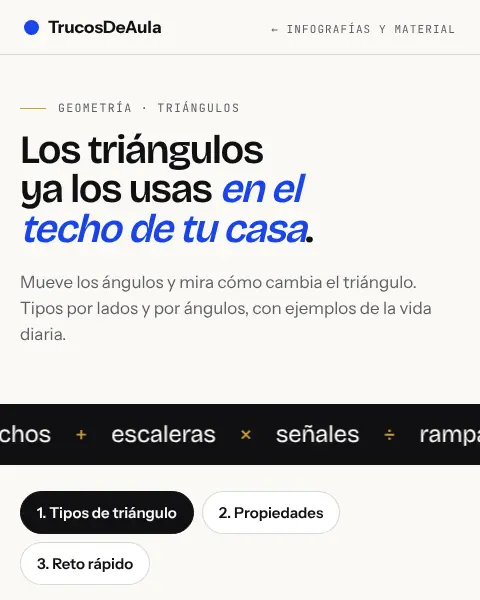
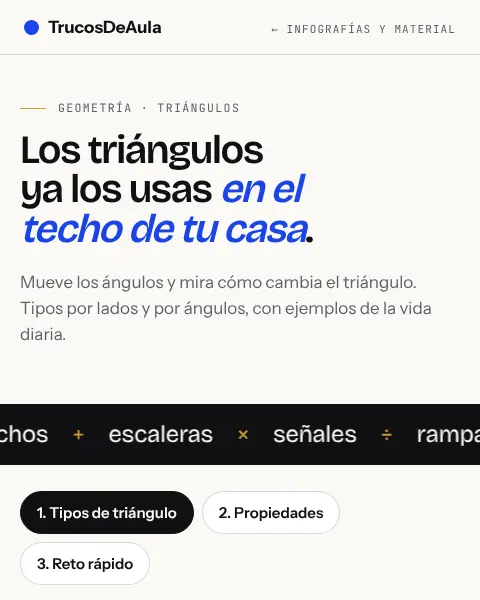
Material: actualiza las 4 páginas de geometría y ordena el material por tema
Claude-Session: https://claude.ai/code/session_01KZaMsh6YNVmKBjcre3BbiW

diff --git a/site/material/geometria-perimetro-y-area.html b/site/material/geometria-perimetro-y-area.html
@@ -112,6 +112,10 @@ input[type=number]{min-width:0}
 .row{align-items:center}
 .pill{line-height:1.5}
 
+.fun{border:1.5px dashed var(--gold);border-radius:10px;padding:14px 18px;margin-top:12px;background:var(--panel)}
+.fun p{margin:0 0 6px;font-size:16px;line-height:1.5}
+.fun p:last-child{margin:0}
+
 </style>
 </head>
 <body>
@@ -151,6 +155,7 @@ input[type=number]{min-width:0}
         <div class="eq" id="areaF"></div>
         <div class="eq" id="areaV" style="font-size:22px;margin-top:4px"></div>
       </div>
+      <div class="fun" id="funFig"></div>
       <p style="color:var(--muted);font-size:15px;margin-top:12px">Cada cuadrito de la cuadrícula mide 1 cm × 1 cm, o sea 1 cm² de área. El perímetro se mide en cm; el área, en cm².</p>
     </div>
   </div>
@@ -306,26 +311,35 @@ function lab(x,y,t,anchor){return '<text x="'+x.toFixed(1)+'" y="'+y.toFixed(1)+
 var FIG={
   cuadrado:{n:'Cuadrado',life:'El mosaico de un baño o un pañuelo.',p:[['l','Lado',1,12,5]],
     dims:function(v){return [v.l,v.l];},
-    per:function(v){return ['P = 4 · l','P = 4 · '+v.l+' = '+(4*v.l)+' cm'];},
+    per:function(v){return ['P = 4l','P = 4 x '+v.l+' = '+(4*v.l)+' cm'];},
     area:function(v){return ['A = l²','A = '+v.l+'² = '+(v.l*v.l)+' cm²'];}},
   rectangulo:{n:'Rectángulo',life:'Una hoja del cuaderno, una cancha, una puerta.',p:[['b','Base',1,14,8],['h','Altura',1,10,5]],
     dims:function(v){return [v.b,v.h];},
     per:function(v){return ['P = 2(b + h)','P = 2('+v.b+' + '+v.h+') = '+(2*(v.b+v.h))+' cm'];},
-    area:function(v){return ['A = b · h','A = '+v.b+' · '+v.h+' = '+(v.b*v.h)+' cm²'];}},
+    area:function(v){return ['A = b x h','A = '+v.b+' x '+v.h+' = '+(v.b*v.h)+' cm²'];}},
   triangulo:{n:'Triángulo rectángulo',life:'Una escuadra, un banderín, una rampa vista de lado.',p:[['b','Base',1,14,8],['h','Altura',1,10,6]],
     dims:function(v){return [v.b,v.h];},
-    per:function(v){var c=Math.sqrt(v.b*v.b+v.h*v.h);return ['P = b + h + c, con c = √(b² + h²)','P = '+v.b+' + '+v.h+' + '+r2(c)+' = '+r2(v.b+v.h+c)+' cm'];},
-    area:function(v){return ['A = b · h ÷ 2','A = '+v.b+' · '+v.h+' ÷ 2 = '+r2(v.b*v.h/2)+' cm²'];}},
+    per:function(v){var c=Math.sqrt(v.b*v.b+v.h*v.h);return ['P = a + b + c (suma de los tres lados)','P = '+v.b+' + '+v.h+' + '+r2(c)+' = '+r2(v.b+v.h+c)+' cm'];},
+    area:function(v){return ['A = (b x h) / 2','A = ('+v.b+' x '+v.h+') / 2 = '+r2(v.b*v.h/2)+' cm²'];}},
   circulo:{n:'Círculo',life:'Una pizza, una llanta, una moneda.',p:[['r','Radio',1,8,5]],
     dims:function(v){return [2*v.r,2*v.r];},
-    per:function(v){return ['P = 2 · π · r','P = 2 · π · '+v.r+' ≈ '+r2(2*PI*v.r)+' cm'];},
-    area:function(v){return ['A = π · r²','A = π · '+v.r+'² ≈ '+r2(PI*v.r*v.r)+' cm²'];}},
+    per:function(v){return ['P = 2πr','P = 2 x π x '+v.r+' ≈ '+r2(2*PI*v.r)+' cm'];},
+    area:function(v){return ['A = πr²','A = π x '+v.r+'² ≈ '+r2(PI*v.r*v.r)+' cm²'];}},
   trapecio:{n:'Trapecio isósceles',life:'El perfil de una cubeta o de un puesto de tianguis.',p:[['B','Base mayor',3,14,10],['b','Base menor',1,13,6],['h','Altura',1,9,5]],
     dims:function(v){return [v.B,v.h];},
-    per:function(v){var l=Math.sqrt(v.h*v.h+Math.pow((v.B-v.b)/2,2));return ['P = B + b + 2l, con l = √(h² + ((B − b) ÷ 2)²)','P = '+v.B+' + '+v.b+' + 2('+r2(l)+') = '+r2(v.B+v.b+2*l)+' cm'];},
-    area:function(v){return ['A = (B + b) · h ÷ 2','A = ('+v.B+' + '+v.b+') · '+v.h+' ÷ 2 = '+r2((v.B+v.b)*v.h/2)+' cm²'];}}
+    per:function(v){var l=Math.sqrt(v.h*v.h+Math.pow((v.B-v.b)/2,2));return ['P = a + b + c + d (suma de los cuatro lados)','P = '+v.B+' + '+v.b+' + '+r2(l)+' + '+r2(l)+' = '+r2(v.B+v.b+2*l)+' cm'];},
+    area:function(v){return ['A = (B + b) x h / 2','A = ('+v.B+' + '+v.b+') x '+v.h+' / 2 = '+r2((v.B+v.b)*v.h/2)+' cm²'];}}
 };
 var figKey='rectangulo', vals={};
+var FUNFIG={
+  cuadrado:['<b>l²</b> se lee “lado al cuadrado” por algo literal: multiplicas lado por lado y obtienes cuadritos. Un cuadrado de lado 5 tiene 5 filas de 5 cuadritos, o sea 25.','<b>4l</b> es un atajo: como los cuatro lados son iguales, en vez de sumar l + l + l + l multiplicas 4 por l.'],
+  rectangulo:['<b>b x h</b>: en el rectángulo caben h filas y cada fila tiene b cuadritos. Contar filas iguales es multiplicar, y por eso el área es una multiplicación.','<b>2(b + h)</b>: al recorrer el contorno pasas por dos bases y dos alturas. Es b + h + b + h, que se agrupa como dos veces (b + h).'],
+  triangulo:['<b>(b x h) / 2</b>: si cortas un rectángulo por su diagonal salen dos triángulos iguales. Cada uno es la mitad del rectángulo, así que su área es b x h dividido entre 2.','<b>a + b + c</b> no tiene atajo: es el único caso en que solo queda sumar los tres lados.'],
+  circulo:['<b>π</b> es lo que sale al dividir lo que mide el borde de cualquier círculo entre su diámetro: siempre da unos 3.14, sea una moneda o una pista de atletismo. Por eso <b>2πr</b> es “π veces el diámetro”.','<b>πr²</b>: si cortas el círculo en gajos como una pizza y los acomodas alternados, se arma casi un rectángulo. Su base es la mitad del borde (πr) y su altura es r, y πr x r = πr².'],
+  trapecio:['<b>(B + b) x h / 2</b>: si pegas otro trapecio igual, girado, se forma un rectángulo torcido de base B + b y altura h. El trapecio es la mitad de ese. Dicho de otro modo, es el promedio de las dos bases por la altura.','<b>a + b + c + d</b>: igual que el triángulo, el perímetro de un trapecio es sumar sus cuatro lados.']
+};
+function funHTML(a){return a.map(function(t){return '<p>'+t+'</p>';}).join('');}
+
 function figShape(key,v,ox,oy,u){
   var fillA='fill="var(--gold)" fill-opacity=".38"', ln='stroke="var(--accent)" stroke-width="4" stroke-linejoin="round"';
   if(key==='cuadrado') return '<rect x="'+ox+'" y="'+(oy-v.l*u)+'" width="'+(v.l*u)+'" height="'+(v.l*u)+'" '+fillA+' '+ln+'/>'+lab(ox+v.l*u/2,oy+20,'l = '+v.l);
@@ -362,6 +376,7 @@ function setFig(key){
     var on=b.getAttribute('data-fig')===key;
     b.style.background=on?'var(--ink)':'var(--panel)'; b.style.color=on?'var(--bg)':'var(--ink)'; b.style.borderColor=on?'var(--ink)':'var(--line)';
   });
+  $('#funFig').innerHTML='<div class="kicker" style="margin-bottom:6px">Dato curioso</div>'+funHTML(FUNFIG[key]);
   drawFig();
 }
 Object.keys(FIG).forEach(function(k){
@@ -385,7 +400,7 @@ function drawComp(){
     s+='<polygon points="'+ox+','+oy+' '+(ox+W*u)+','+oy+' '+(ox+W*u)+','+(oy-(H-h)*u)+' '+(ox+(W-w)*u)+','+(oy-(H-h)*u)+' '+(ox+(W-w)*u)+','+(oy-H*u)+' '+ox+','+(oy-H*u)+'" fill="none" stroke="var(--ink)" stroke-width="3.5" stroke-linejoin="round"/>';
     s+=lab(ox+W*u/2,oy+20,'W = '+W)+lab(ox-8,oy-H*u/2+5,'H = '+H,'end')+lab(ox+(W-w/2)*u,oy-(H-h)*u-8,'w = '+w)+lab(ox+(W-w)*u+8,oy-(H-h/2)*u+5,'h = '+h,'start');
     var A1=W*(H-h), A2=(W-w)*h;
-    area='<p>Partiendo en dos rectángulos: W(H − h) + (W − w)h</p><p class="eq">'+W+'('+(H-h)+') + '+(W-w)+'('+h+') = '+A1+' + '+A2+' = '+(A1+A2)+' cm²</p><p>Completando el rectángulo: W · H − w · h</p><p class="eq">'+W+' · '+H+' − '+w+' · '+h+' = '+(W*H)+' − '+(w*h)+' = '+(W*H-w*h)+' cm²</p>';
+    area='<p>Partiendo en dos rectángulos: W(H − h) + (W − w)h</p><p class="eq">'+W+'('+(H-h)+') + '+(W-w)+'('+h+') = '+A1+' + '+A2+' = '+(A1+A2)+' cm²</p><p>Completando el rectángulo: W x H − w x h</p><p class="eq">'+W+' x '+H+' − '+w+' x '+h+' = '+(W*H)+' − '+(w*h)+' = '+(W*H-w*h)+' cm²</p>';
     per='<p>Los lados del recoveco suman lo mismo que los lados que le quitaste al rectángulo, así que el perímetro es el del rectángulo grande.</p><p class="eq">P = 2(W + H) = 2('+W+' + '+H+') = '+(2*(W+H))+' cm</p>';
   } else {
     name='Ventana con arco'; life='Una ventana de iglesia, la entrada de un túnel, una puerta con arco.';
@@ -398,8 +413,8 @@ function drawComp(){
     s+='<path d="M '+ox2+' '+oy2+' L '+(ox2+b*u2)+' '+oy2+' L '+(ox2+b*u2)+' '+(oy2-hh*u2)+' A '+(r*u2)+' '+(r*u2)+' 0 0 0 '+ox2+' '+(oy2-hh*u2)+' Z" fill="none" stroke="var(--ink)" stroke-width="3.5" stroke-linejoin="round"/>';
     s+=lab(ox2+b*u2/2,oy2+20,'b = '+b)+lab(ox2-8,oy2-hh*u2/2+5,'h = '+hh,'end')+lab(ox2+b*u2/2,oy2-hh*u2-r*u2/2+5,'r = '+r);
     var Ar=b*hh, As=PI*r*r/2;
-    area='<p>Rectángulo + medio círculo: b · h + π r² ÷ 2</p><p class="eq">'+b+' · '+hh+' + π · '+r+'² ÷ 2 ≈ '+r2(Ar)+' + '+r2(As)+' = '+r2(Ar+As)+' cm²</p>';
-    per='<p>Base + dos lados + el arco (media circunferencia). El lado de arriba del rectángulo no cuenta, porque ya no es contorno.</p><p class="eq">P = b + 2h + π r = '+b+' + '+(2*hh)+' + π · '+r+' ≈ '+r2(b+2*hh+PI*r)+' cm</p>';
+    area='<p>Rectángulo + medio círculo: b x h + πr² / 2</p><p class="eq">'+b+' x '+hh+' + π x '+r+'² / 2 ≈ '+r2(Ar)+' + '+r2(As)+' = '+r2(Ar+As)+' cm²</p>';
+    per='<p>Base + dos lados + el arco (media circunferencia). El lado de arriba del rectángulo no cuenta, porque ya no es contorno.</p><p class="eq">P = b + 2h + πr = '+b+' + '+(2*hh)+' + π x '+r+' ≈ '+r2(b+2*hh+PI*r)+' cm</p>';
   }
   $('#svgComp').innerHTML=s; $('#compName').textContent=name;
   $('#compLife').textContent='En la vida diaria: '+life.charAt(0).toLowerCase()+life.slice(1);
@@ -443,19 +458,19 @@ Quiz(function(){
   var k=rnd(5), q={};
   if(k===0){
     var L=3+rnd(6), W=3+rnd(4);
-    q={text:'El piso de una recámara mide '+L+' m × '+W+' m. ¿Cuántos mosaicos cuadrados de 50 cm por lado se necesitan?',ans:L*W*4,unit:'mosaicos',tol:0.01,why:'Área = '+L+' · '+W+' = '+(L*W)+' m². Cada mosaico cubre 0.25 m², así que caben 4 por metro cuadrado.'};
+    q={text:'El piso de una recámara mide '+L+' m × '+W+' m. ¿Cuántos mosaicos cuadrados de 50 cm por lado se necesitan?',ans:L*W*4,unit:'mosaicos',tol:0.01,why:'Área = '+L+' x '+W+' = '+(L*W)+' m². Cada mosaico cubre 0.25 m², así que caben 4 por metro cuadrado.'};
   } else if(k===1){
     var a=8+rnd(10), b=5+rnd(7);
     q={text:'Un terreno rectangular mide '+a+' m de frente por '+b+' m de fondo. ¿Cuántos metros de cerca se necesitan para rodearlo una vez?',ans:2*(a+b),unit:'m',tol:0.01,why:'P = 2('+a+' + '+b+') = '+(2*(a+b))+' m.'};
   } else if(k===2){
     var d=pick([20,24,30,36,40]), r=d/2;
-    q={text:'Una pizza mide '+d+' cm de diámetro. ¿Cuál es su área? Usa π = 3.14.',ans:r2(3.14*r*r),unit:'cm²',tol:0.02,why:'r = '+r+' cm y A = π r² = 3.14 · '+r+'² = '+r2(3.14*r*r)+' cm².'};
+    q={text:'Una pizza mide '+d+' cm de diámetro. ¿Cuál es su área? Usa π = 3.14.',ans:r2(3.14*r*r),unit:'cm²',tol:0.02,why:'r = '+r+' cm y A = πr² = 3.14 x '+r+'² = '+r2(3.14*r*r)+' cm².'};
   } else if(k===3){
     var l=pick([7,8,9,10,11,12,13]);
-    q={text:'Un cuadrado tiene un área de '+(l*l)+' cm². ¿Cuánto mide su perímetro?',ans:4*l,unit:'cm',tol:0.01,why:'El lado es √'+(l*l)+' = '+l+' cm y P = 4 · '+l+' = '+(4*l)+' cm.'};
+    q={text:'Un cuadrado tiene un área de '+(l*l)+' cm². ¿Cuánto mide su perímetro?',ans:4*l,unit:'cm',tol:0.01,why:'El lado es √'+(l*l)+' = '+l+' cm y P = 4 x '+l+' = '+(4*l)+' cm.'};
   } else {
     var bb=pick([4,5,8,10,12]), hh=pick([3,4,5,6,7,9]);
-    q={text:'Un rectángulo tiene un área de '+(bb*hh)+' cm² y su base mide '+bb+' cm. ¿Cuánto mide su perímetro?',ans:2*(bb+hh),unit:'cm',tol:0.01,why:'La altura es '+(bb*hh)+' ÷ '+bb+' = '+hh+' cm y P = 2('+bb+' + '+hh+') = '+(2*(bb+hh))+' cm.'};
+    q={text:'Un rectángulo tiene un área de '+(bb*hh)+' cm² y su base mide '+bb+' cm. ¿Cuánto mide su perímetro?',ans:2*(bb+hh),unit:'cm',tol:0.01,why:'La altura es '+(bb*hh)+' / '+bb+' = '+hh+' cm y P = 2('+bb+' + '+hh+') = '+(2*(bb+hh))+' cm.'};
   }
   return q;
 });

diff --git a/site/material/geometria-volumen.html b/site/material/geometria-volumen.html
@@ -112,6 +112,10 @@ input[type=number]{min-width:0}
 .row{align-items:center}
 .pill{line-height:1.5}
 
+.fun{border:1.5px dashed var(--gold);border-radius:10px;padding:14px 18px;margin-top:12px;background:var(--panel)}
+.fun p{margin:0 0 6px;font-size:16px;line-height:1.5}
+.fun p:last-child{margin:0}
+
 </style>
 </head>
 <body>
@@ -150,7 +154,8 @@ input[type=number]{min-width:0}
         <div class="kicker" style="margin-bottom:4px">Capacidad · cuánto líquido le cabe</div>
         <div class="eq" id="capV" style="font-size:22px"></div>
       </div>
-      <p style="color:var(--muted);font-size:15px;margin-top:12px">Medidas en cm. Un litro equivale a 1000 cm³.</p>
+      <div class="fun" id="funSol"></div>
+      <p style="color:var(--muted);font-size:15px;margin-top:12px">Medidas en cm. Ab es el área de la base y hc es la altura del cuerpo. Un litro equivale a 1000 cm³.</p>
     </div>
   </div>
 </section>
@@ -170,7 +175,7 @@ input[type=number]{min-width:0}
         <p><b>Pirámide y prisma</b> con la misma base y la misma altura: igual, un tercio.</p>
         <p><b>Esfera y cilindro</b> que la envuelve (altura 2r): la esfera ocupa dos tercios.</p>
       </div>
-      <div class="band" style="margin-top:14px">Por eso en las fórmulas del cono y de la pirámide aparece ⅓.</div>
+      <div class="band" style="margin-top:14px">Por eso en las fórmulas del cono y de la pirámide aparece la división entre 3.</div>
     </div>
   </div>
 </section>
@@ -293,19 +298,29 @@ function t(x,y,s,a){return '<text x="'+x.toFixed(1)+'" y="'+y.toFixed(1)+'" text
 
 var SOL={
   cubo:{n:'Cubo',life:'Un dado o un cubo de hielo.',p:[['a','Arista',1,10,4]],
-    vol:function(v){return [ 'V = a³','V = '+v.a+'³ = '+(v.a*v.a*v.a),v.a*v.a*v.a];}},
+    vol:function(v){return ['V = Ab x hc','V = ('+v.a+' x '+v.a+') x '+v.a+' = '+(v.a*v.a*v.a),v.a*v.a*v.a];}},
   prisma:{n:'Prisma rectangular',life:'Una caja de cereal, un ladrillo, un tinaco rectangular.',p:[['l','Largo',1,12,8],['w','Ancho',1,10,4],['h','Alto',1,12,5]],
-    vol:function(v){return ['V = l · w · h','V = '+v.l+' · '+v.w+' · '+v.h+' = '+(v.l*v.w*v.h),v.l*v.w*v.h];}},
+    vol:function(v){return ['V = Ab x hc','V = ('+v.l+' x '+v.w+') x '+v.h+' = '+(v.l*v.w*v.h),v.l*v.w*v.h];}},
   cilindro:{n:'Cilindro',life:'Una lata de refresco o un tinaco redondo.',p:[['r','Radio',1,8,3],['h','Altura',1,12,8]],
-    vol:function(v){var x=PI*v.r*v.r*v.h;return ['V = π · r² · h','V = π · '+v.r+'² · '+v.h+' ≈ '+r2(x),x];}},
+    vol:function(v){var x=PI*v.r*v.r*v.h;return ['V = πr²h','V = π x '+v.r+'² x '+v.h+' ≈ '+r2(x),x];}},
   cono:{n:'Cono',life:'Un cono de helado o un cono de tránsito.',p:[['r','Radio',1,8,3],['h','Altura',1,12,9]],
-    vol:function(v){var x=PI*v.r*v.r*v.h/3;return ['V = ⅓ · π · r² · h','V = ⅓ · π · '+v.r+'² · '+v.h+' ≈ '+r2(x),x];}},
+    vol:function(v){var x=PI*v.r*v.r*v.h/3;return ['V = (πr²h) / 3','V = (π x '+v.r+'² x '+v.h+') / 3 ≈ '+r2(x),x];}},
   piramide:{n:'Pirámide de base cuadrada',life:'La Pirámide del Sol en Teotihuacán o la punta de un obelisco.',p:[['l','Lado de la base',1,12,6],['h','Altura',1,12,7]],
-    vol:function(v){var x=v.l*v.l*v.h/3;return ['V = ⅓ · l² · h','V = ⅓ · '+v.l+'² · '+v.h+' ≈ '+r2(x),x];}},
+    vol:function(v){var x=v.l*v.l*v.h/3;return ['V = (Ab x hc) / 3','V = ('+(v.l*v.l)+' x '+v.h+') / 3 ≈ '+r2(x),x];}},
   esfera:{n:'Esfera',life:'Un balón o una canica.',p:[['r','Radio',1,10,4]],
-    vol:function(v){var x=4*PI*v.r*v.r*v.r/3;return ['V = ⁴⁄₃ · π · r³','V = ⁴⁄₃ · π · '+v.r+'³ ≈ '+r2(x),x];}}
+    vol:function(v){var x=4*PI*v.r*v.r*v.r/3;return ['V = (4/3)πr³','V = (4/3) x π x '+v.r+'³ ≈ '+r2(x),x];}}
 };
 var solKey='cilindro', sv={};
+var FUNSOL={
+  cubo:['<b>Elevar al cubo</b> viene de aquí: a x a x a. La base es una capa de a x a cubitos y apilas a capas. Por eso a³ se lee “a al cubo”.','Es la misma fórmula del prisma, <b>Ab x hc</b>: cubitos por capa por número de capas.'],
+  prisma:['<b>Ab x hc</b>: piensa en cubitos de 1 cm. La base te dice cuántos caben en una capa (Ab) y la altura cuántas capas apilas (hc). Cubitos por capa por capas.','Es la fórmula madre de los cuerpos: la mayoría solo la modifica un poco.'],
+  cilindro:['<b>πr²h</b> es la fórmula del prisma con otra base. Una capa circular tiene área πr² y apilas h capas, igual que Ab x hc.','Por eso al cilindro le sale bien todo lo que sabes del círculo: solo le agregas la altura.'],
+  cono:['<b>(πr²h) / 3</b>: un cono cabe exactamente 3 veces en un cilindro con la misma base y la misma altura. Se comprueba llenando un cono de papel con arroz y vaciándolo en un vaso: se llena con 3 conos.','El 3 de abajo es esa comprobación hecha fórmula.'],
+  piramide:['<b>(Ab x hc) / 3</b>: un cubo se puede armar con 3 pirámides iguales que parten de una misma esquina. Con la misma base y la misma altura, una pirámide es la tercera parte de un prisma.','Es la misma idea del cono: la punta le quita dos terceras partes al volumen.'],
+  esfera:['<b>(4/3)πr³</b>: Arquímedes descubrió que una esfera cabe justo en un cilindro de su misma anchura y ocupa dos tercios de él. Ese cilindro vale πr² x 2r = 2πr³, y dos tercios de eso es (4/3)πr³.','Se cuenta que estaba tan orgulloso de este resultado que pidió grabar una esfera dentro de un cilindro en su tumba.']
+};
+function funHTML(a){return a.map(function(t){return '<p>'+t+'</p>';}).join('');}
+
 
 function drawPrism(l,w,h){
   var k=Math.min(190/(l+0.5*w),170/(h+0.35*w)), W=l*k, H=h*k, dx=w*k*0.5, dy=w*k*0.35;
@@ -382,6 +397,7 @@ function setSol(key){
     var on=b.getAttribute('data-sol')===key;
     b.style.background=on?'var(--ink)':'var(--panel)'; b.style.color=on?'var(--bg)':'var(--ink)'; b.style.borderColor=on?'var(--ink)':'var(--line)';
   });
+  $('#funSol').innerHTML='<div class="kicker" style="margin-bottom:6px">Dato curioso</div>'+funHTML(FUNSOL[key]);
   drawSol();
 }
 Object.keys(SOL).forEach(function(k){
@@ -416,22 +432,22 @@ Quiz(function(){
   var k=rnd(6), q={};
   if(k===0){
     var l=pick([20,24,25,30]), w=pick([10,12]), h=pick([5,6,8]);
-    q={text:'Un ladrillo mide '+l+' × '+w+' × '+h+' cm. ¿Cuál es su volumen?',ans:l*w*h,unit:'cm³',tol:0.01,why:'V = l · w · h = '+l+' · '+w+' · '+h+' = '+(l*w*h)+' cm³.'};
+    q={text:'Un ladrillo mide '+l+' × '+w+' × '+h+' cm. ¿Cuál es su volumen?',ans:l*w*h,unit:'cm³',tol:0.01,why:'V = Ab x hc = ('+l+' x '+w+') x '+h+' = '+(l*w*h)+' cm³.'};
   } else if(k===1){
     var r=pick([2,3,4,5]), h2=pick([8,10,12]);
-    q={text:'Una lata cilíndrica tiene radio de '+r+' cm y altura de '+h2+' cm. ¿Cuál es su volumen? Usa π = 3.14.',ans:r2(3.14*r*r*h2),unit:'cm³',tol:0.02,why:'V = π r² h = 3.14 · '+r+'² · '+h2+' = '+r2(3.14*r*r*h2)+' cm³.'};
+    q={text:'Una lata cilíndrica tiene radio de '+r+' cm y altura de '+h2+' cm. ¿Cuál es su volumen? Usa π = 3.14.',ans:r2(3.14*r*r*h2),unit:'cm³',tol:0.02,why:'V = πr²h = 3.14 x '+r+'² x '+h2+' = '+r2(3.14*r*r*h2)+' cm³.'};
   } else if(k===2){
     var rc=pick([2,3,4]), hc=pick([6,9,12]);
-    q={text:'Un cono de helado tiene radio de '+rc+' cm y altura de '+hc+' cm. ¿Cuál es su volumen? Usa π = 3.14.',ans:r2(3.14*rc*rc*hc/3),unit:'cm³',tol:0.02,why:'V = ⅓ π r² h = ⅓ · 3.14 · '+rc+'² · '+hc+' = '+r2(3.14*rc*rc*hc/3)+' cm³.'};
+    q={text:'Un cono de helado tiene radio de '+rc+' cm y altura de '+hc+' cm. ¿Cuál es su volumen? Usa π = 3.14.',ans:r2(3.14*rc*rc*hc/3),unit:'cm³',tol:0.02,why:'V = (πr²h) / 3 = (3.14 x '+rc+'² x '+hc+') / 3 = '+r2(3.14*rc*rc*hc/3)+' cm³.'};
   } else if(k===3){
     var re=pick([3,6]);
-    q={text:'Un balón tiene radio de '+re+' cm. ¿Cuál es su volumen? Usa π = 3.14.',ans:r2(4*3.14*re*re*re/3),unit:'cm³',tol:0.02,why:'V = ⁴⁄₃ π r³ = ⁴⁄₃ · 3.14 · '+re+'³ = '+r2(4*3.14*re*re*re/3)+' cm³.'};
+    q={text:'Un balón tiene radio de '+re+' cm. ¿Cuál es su volumen? Usa π = 3.14.',ans:r2(4*3.14*re*re*re/3),unit:'cm³',tol:0.02,why:'V = (4/3)πr³ = (4/3) x 3.14 x '+re+'³ = '+r2(4*3.14*re*re*re/3)+' cm³.'};
   } else if(k===4){
     var d=pick([[20,10,5],[30,20,10],[50,40,30],[40,25,20],[100,50,40]]), vv=d[0]*d[1]*d[2];
     q={text:'Una caja mide '+d[0]+' × '+d[1]+' × '+d[2]+' cm. ¿Cuántos litros de agua le caben?',ans:vv/1000,unit:'litros',tol:0.01,why:'V = '+vv+' cm³ y 1000 cm³ = 1 litro, entonces caben '+(vv/1000)+' litros.'};
   } else {
     var a=pick([3,4,5,6,8,10]);
-    q={text:'Un cubo de hielo tiene una arista de '+a+' cm. ¿Cuál es su volumen?',ans:a*a*a,unit:'cm³',tol:0.01,why:'V = a³ = '+a+'³ = '+(a*a*a)+' cm³.'};
+    q={text:'Un cubo de hielo tiene una arista de '+a+' cm. ¿Cuál es su volumen?',ans:a*a*a,unit:'cm³',tol:0.01,why:'V = Ab x hc = ('+a+' x '+a+') x '+a+' = '+(a*a*a)+' cm³.'};
   }
   return q;
 });

diff --git a/site/material/geometria-poligonos.html b/site/material/geometria-poligonos.html
@@ -112,6 +112,10 @@ input[type=number]{min-width:0}
 .row{align-items:center}
 .pill{line-height:1.5}
 
+.fun{border:1.5px dashed var(--gold);border-radius:10px;padding:14px 18px;margin-top:12px;background:var(--panel)}
+.fun p{margin:0 0 6px;font-size:16px;line-height:1.5}
+.fun p:last-child{margin:0}
+
 </style>
 </head>
 <body>

diff --git a/site/material/geometria-triangulos.html b/site/material/geometria-triangulos.html
@@ -112,6 +112,10 @@ input[type=number]{min-width:0}
 .row{align-items:center}
 .pill{line-height:1.5}
 
+.fun{border:1.5px dashed var(--gold);border-radius:10px;padding:14px 18px;margin-top:12px;background:var(--panel)}
+.fun p{margin:0 0 6px;font-size:16px;line-height:1.5}
+.fun p:last-child{margin:0}
+
 </style>
 </head>
 <body>
